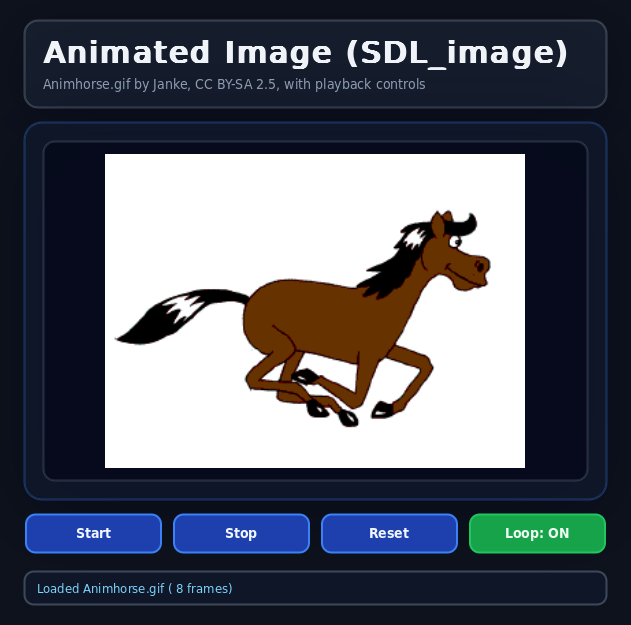
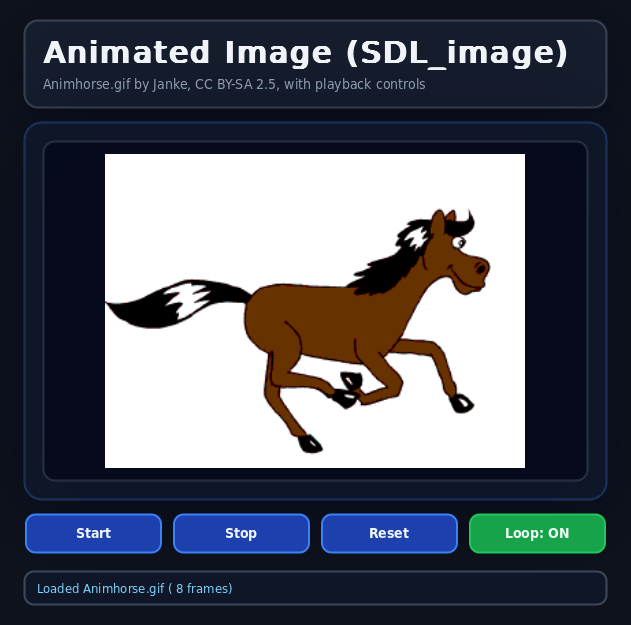
Docs: gallery, sponsoring, the workshop talk, and stale conventions
Eight captures move: the tiger's flattened ears in svg_example and
image_example, monospace code in html_view_example, and where the
playhead stood in the animated_image, rlottie and demo_flex captures.
The README features rlottie_example in place of dialog_example, and
carries the live demo link under the gallery as well as in the browser
bullet.

examples/README.md records that the split between XML and Ada examples
is a choice: XML for static layout, Ada for callbacks, generic
instantiation, content built at runtime, and resources whose owner must
outlive the widgets drawing them.

The README gains a Sponsoring section, reached by email, and Contact
separates the three channels: the issue tracker for bugs and features,
email for private, sponsored or commercial work. It also links the AEiC
2026 Ada Developers Workshop talk, in its two parts.

coding_conventions.md describes handles, Create_Handle and the "+"
widening, which is what call sites use, and its directory listing covers
src/svg, the MCP pair and examples/xml.

Changed region(s): [[0.1506, 0.4256, 0.7528, 0.7296], [0.4216, 0.3344, 0.7829, 0.4864]]

diff --git a/docs/coding_conventions.md b/docs/coding_conventions.md
@@ -7,12 +7,14 @@
 
 ## Naming Patterns
 - Types: `Widget`, `Rectangle`, `Color_Value`
-- Access types: `Widget_Access`, `Window_Access`
-- Functions returning accessors: `Create`, `Get_*`
+- Handle types: `Widget_Handle`, `Label_Handle`, `Image_Handle` — what callers hold
+- Access types: `Widget_Access` — internal, private where the design allows
+- Constructors: `Create_Handle`. The `Create` functions returning access are `Obsolescent`
+- Functions for queries: `Get_*`, `Is_*`
 - Procedures for mutation: `Set_*`, `Add_*`, `Remove_*`
 
 ## Package Hierarchy
-All packages rooted under `Adi`. Core types in `Adi.Core`, styles in `Adi.Style`/`Adi.CSS_Styles`/`Adi.Widget_Styles`, widgets in `Adi.Widget.*`, SDL bindings in `Adi.SDL.*`.
+All packages rooted under `Adi`. Core types in `Adi.Core`, styles in `Adi.CSS_Styles`/`Adi.Widget_Styles`, widgets in `Adi.Widget.*`, SDL bindings in `Adi.SDL.*`.
 
 ## Logging
 - Use `Adi.Log` for runtime diagnostics (`Debug`, `Info`, `Warning`, `Error`).
@@ -21,13 +23,17 @@ All packages rooted under `Adi`. Core types in `Adi.Core`, styles in `Adi.Style`
 
 ## Widget API Conventions
 
-### Hierarchy calls use `access Widget'Class`
-`Add_Child`, `Remove_Child`, `Set_Root`, `Add_Overlay`, `Remove_Overlay`, `Add_Page` accept anonymous access — no `Widget_Access(...)` casts at call sites.
+### Hierarchy calls take handles
+`Add_Child`, `Remove_Child`, `Set_Root`, `Add_Overlay`, `Remove_Overlay` and
+`Add_Page` take `Widget_Handle`. `"+"` widens a typed handle to it, so no
+cast appears at a call site:
 
-### Dot notation
 ```ada
-Root.Add_Child (Label1);  -- not Add_Child (Root.all, Widget_Access (Label1))
+Adi.Widget.Box.Add_Child (Root, +Label1);
 ```
+
+The `access Widget'Class` overloads remain for use inside the widget
+bodies; new call sites use the handle form.
 
 ### Internal storage conversion
 When converting anonymous access params to stored `Widget_Access`, use `C.all'Unchecked_Access` (not `Widget_Access(C)`) to avoid runtime accessibility `PROGRAM_ERROR`.
@@ -41,10 +47,13 @@ e.g. `Click_Callback`, `Toggle_Callback` — Ada accessibility rules (RM 3.10.2)
 src/adi-*.ads/adb         - Library modules (Ada package naming)
 src/adi-widget-*.ads/adb  - Widget implementations
 src/adi-sdl-*.ads/adb     - SDL3 bindings
+src/svg/                  - SVG API and its backend
+src/mcp/, src/mcp_stub/   - MCP bridge; the stub replaces it outside development
 tests/src/                - Test programs
 examples/                 - Example programs
 examples/css/             - CSS source files
-examples/generated/       - Auto-generated Ada style packages
+examples/xml/             - Declarative UI definitions
+examples/generated/       - Ada generated from css/ and xml/
 tools/                    - Build/generation scripts
-config/                   - Build config (posix/ and windows/ variants)
+config/                   - Build config (posix/, windows/, darwin/ and build profiles)
 ```

diff --git a/README.md b/README.md
@@ -33,13 +33,13 @@ Adi2 gives you a real widget toolkit with the niceties developers expect from a 
 ![html_view_example](examples/screenshots/html_view_example.png)
 *`html_view_example`*
 
-![dialog_example](examples/screenshots/dialog_example.png)
-*`dialog_example`*
+![rlottie_example](examples/screenshots/rlottie_example.png)
+*`rlottie_example`*
 
 ![assets_example](examples/screenshots/assets_example.png)
 *`assets_example`*
 
-Full gallery of every example: [`docs/gallery.md`](docs/gallery.md).
+Full gallery of every example: [`docs/gallery.md`](docs/gallery.md). Or run them yourself, in the browser: [**live demos**](https://pizzahack.eu/adi2/demo/).
 
 ---
 
@@ -162,6 +162,14 @@ Rendering goes through the SDL renderer abstraction, so you get hardware-acceler
 
 ---
 
+## Talk
+
+*A Native, Portable GUI Framework for Ada* — 3rd Ada Developers Workshop, [AEiC 2026](https://www.ada-europe.org/conference2026/workshop_adadev.html), 13 June 2026. Building an Adi2 application, and driving the running UI from an LLM through the MCP bridge.
+
+[Part 1](https://www.youtube.com/watch?v=d-RISfK9Sy8) · [Part 2](https://www.youtube.com/watch?v=H8SMfI7dJfc)
+
+---
+
 ## Go deeper
 
 | Topic | Doc |
@@ -194,6 +202,16 @@ Unless you explicitly state otherwise, contributions you submit are understood t
 
 ---
 
+## Sponsoring
+
+Adi2 is independently developed and maintained. Sponsorship funds ongoing maintenance, cross-platform testing, documentation, and work on the public roadmap.
+
+Organisations interested in supporting the project, or in funding a specific feature, port, or integration: **adi@aldustechnology.com**.
+
+Sponsorship supports the project as a whole. Guaranteed response times or delivery commitments require a separate commercial agreement.
+
+---
+
 ## License
 
 Apache-2.0. See [`LICENSE`](LICENSE).
@@ -206,4 +224,4 @@ Example assets under [`examples/assets/`](examples/assets/) are demonstration co
 
 ## Contact
 
-Adi2 is written by **Aldo Nicolas Bruno**. Bug reports, questions, and commercial support enquiries: **adi@aldustechnology.com**.
+Adi2 is written by **Aldo Nicolas Bruno**. Report bugs and propose features through the issue tracker. For private enquiries, sponsored development, or commercial support: **adi@aldustechnology.com**.

diff --git a/examples/README.md b/examples/README.md
@@ -22,6 +22,18 @@ Examples are built to `examples/bin/`:
 ./bin/label_example
 ```
 
+## XML or Ada
+
+Some examples declare their tree in `xml/`, others build it in Ada. This
+is intentional.
+
+XML for static layout. Ada for what XML cannot express: callbacks,
+generic instantiation, content built at runtime, and resources whose
+owner must outlive the widgets drawing them.
+
+Both reach the same API. A new example goes wherever its subject is
+clearer.
+
 ## Available Examples
 
 ### label_example
